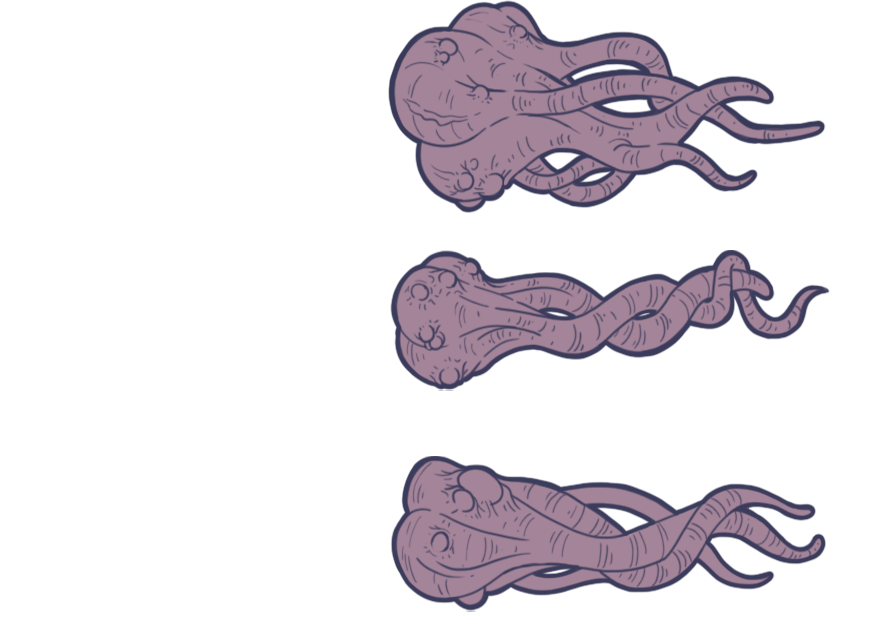
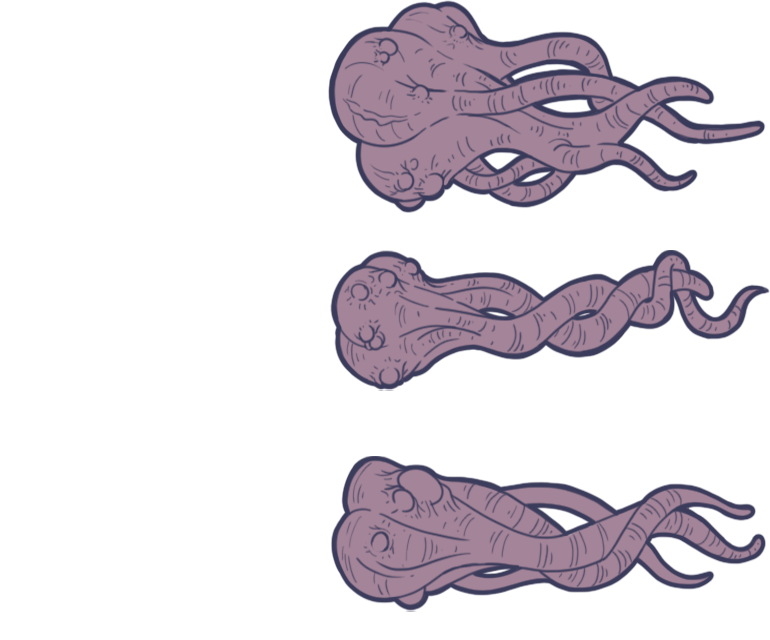
assets

Changed region(s): [[0.4052, 0.0, 0.9974, 0.3438], [0.4052, 0.7188, 0.9974, 0.9688], [0.4052, 0.375, 0.9974, 0.625]]

diff --git a/classes/Player.py b/classes/Player.py
@@ -7,14 +7,14 @@ from core.utils.utils import Gfx
 
 class Player(IGunner,IDamage):
 
-    def __init__(self, projectileManager, initPos=(0, 0),maxHP = 500):
+    def __init__(self, projectileManager, initPos=(0, 0),maxHP = 50):
         self.maxHP = maxHP
         IGunner.__init__(self,PLAYER_PROJ, projectileManager, 0.15)
         IDamage.__init__(self,maxHP,2)
         playerScale = 0.50
         params = {
             "filePath": "resources/images/player.png",
-            "filterColor": (255, 200, 128, 255),
+            "filterColor": (255, 255, 255, 255),
             "spriteBox":(4,1,139,163),
             "startIndex":0,
             "endIndex":3,
@@ -26,7 +26,7 @@ class Player(IGunner,IDamage):
         self.bodyL = Gfx.create_animated(params)
         params = {
             "filePath": "resources/images/player.png",
-            "filterColor": (255, 200, 128, 255),
+            "filterColor": (255, 255, 255, 255),
             "spriteBox":(4,1,139,163),
             "startIndex":0,
             "endIndex":0,

diff --git a/classes/Root.py b/classes/Root.py
@@ -12,7 +12,7 @@ class Root():
             "filePath": "resources/images/root.png",
              #"size": (250, 250),
             "filterColor": (255, 255, 255, 255),
-            "spriteBox":(1,3,890,640//3),
+            "spriteBox":(1,3,770,640//3),
             "startIndex":idx,
             "endIndex":idx,
             "frameDuration":1,
@@ -59,8 +59,8 @@ class Root():
 
     def addNextRoot(self, targetAngle):
         ang = self.sprite.angle
-        x = self.sprite.center_x + 0.5 * self.sprite.width * math.cos(ang*math.pi/180)
-        y = self.sprite.center_y + 0.5 * self.sprite.width * math.sin(ang * math.pi / 180)
+        x = self.sprite.center_x + 0.35 * self.sprite.width * math.cos(ang*math.pi/180)
+        y = self.sprite.center_y + 0.35 * self.sprite.width * math.sin(ang * math.pi / 180)
         newRoot = Root( (x,y), targetAngle) # TODO limit target angle
         self.nextRoot = newRoot
         return newRoot

diff --git a/classes/ProjectileManager.py b/classes/ProjectileManager.py
@@ -17,13 +17,13 @@ class ProjectileManager():
         self.defines = {
             PLAYER_PROJ: {
                 "path":"resources/images/player_projectile.png",
-                "color":(255,255,128,255),
+                "color":(255,255,255,255),
                 "scale":0.5
             },
             ENEMY_PROJ: {
                 "path":"resources/images/enemy_projectile.png",
-                "color":(128,128,255,255),
-                "scale":0.5
+                "color":(255,255,255,255),
+                "scale":0.3
             }
         }
         self.proj_speed = proj_speed

diff --git a/Launcher.py b/Launcher.py
@@ -259,7 +259,7 @@ def main():
     file_path = os.path.join(os.path.dirname(os.path.abspath(__file__)), '')
     os.chdir(file_path)
 
-    game = MyGame(1920, 1080, 1.0, TITLE)
+    game = MyGame(1920, 1080, 0.8, TITLE)
     game.setup()
     arcade.run()
 
